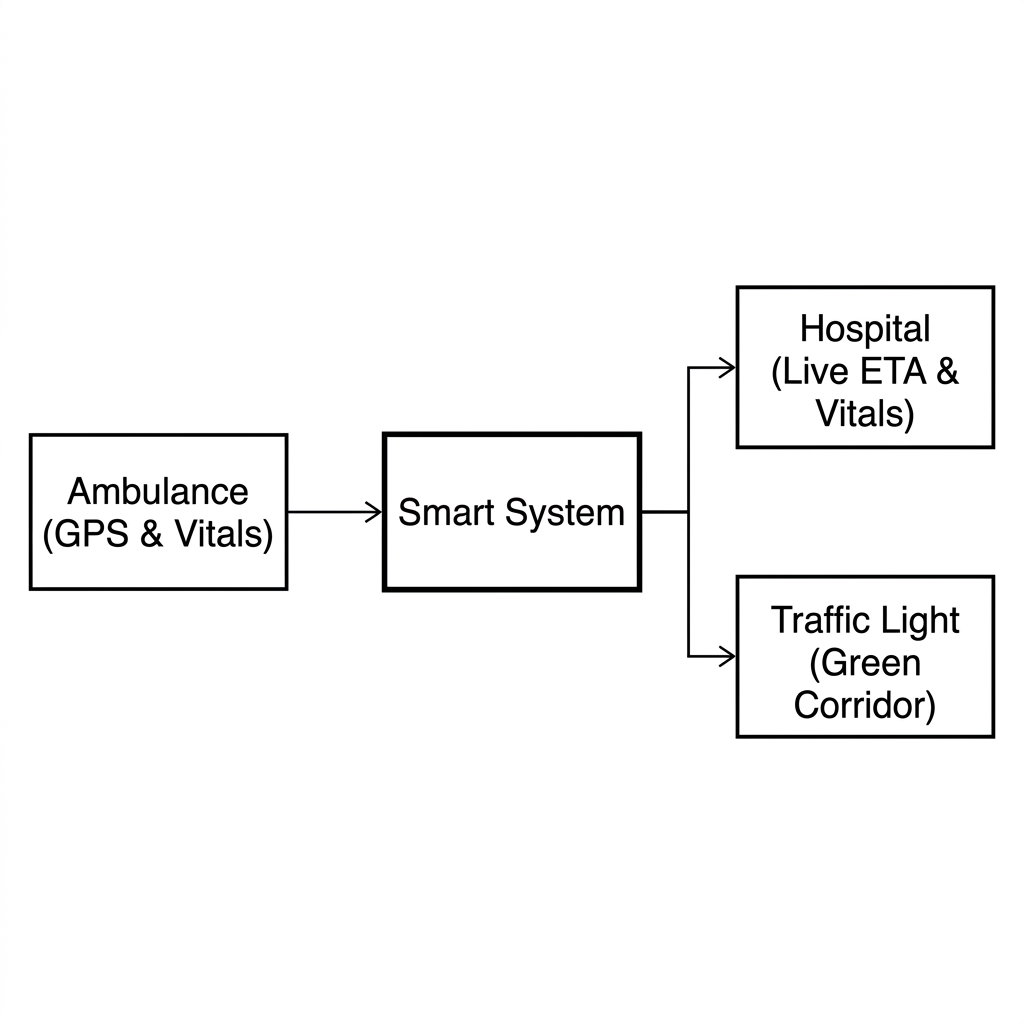
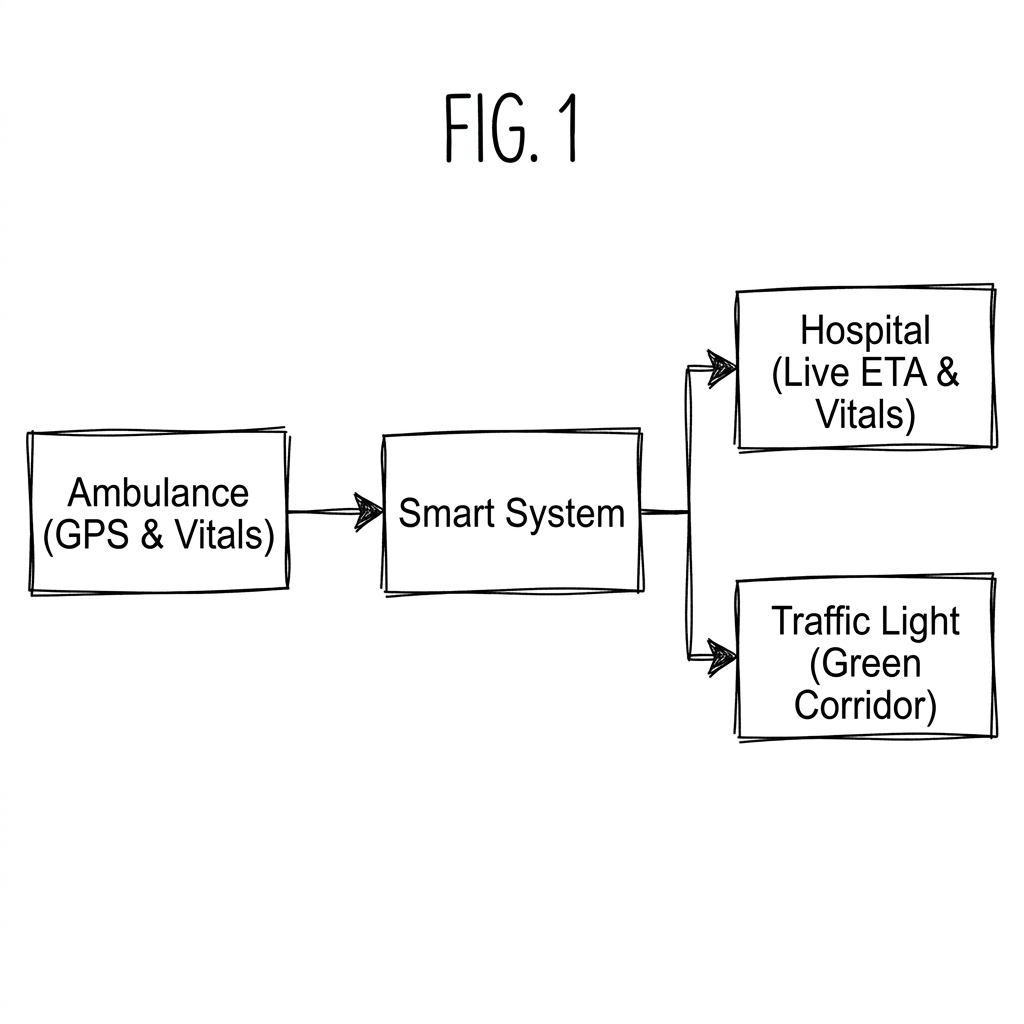
style: update patent diagrams to hand-drawn style and add dashboard assets

diff --git a/project_diagrams.md b/project_diagrams.md
@@ -14,7 +14,17 @@ You can find these images directly in your project folder as `simple_dfd_white.p
 
 ---
 
+---
+
 ## 2. ER Diagram (Core Database Entities) - Solid White PNG Image
 *This diagram shows the 4 core database tables, their keys, and how they connect.*
 
 ![Simple ER Diagram with White Background](simple_er_white.png)
+
+---
+
+## 3. Signal Phase Machine (State-Transition Diagram - FIG. 5)
+*This diagram shows the transitions between the NORMAL, READY, PREPARE, and GREEN states with hysteresis and temporal buffers.*
+
+![Simple State Machine Diagram with White Background](signal_phase_machine_bw.png)
+
